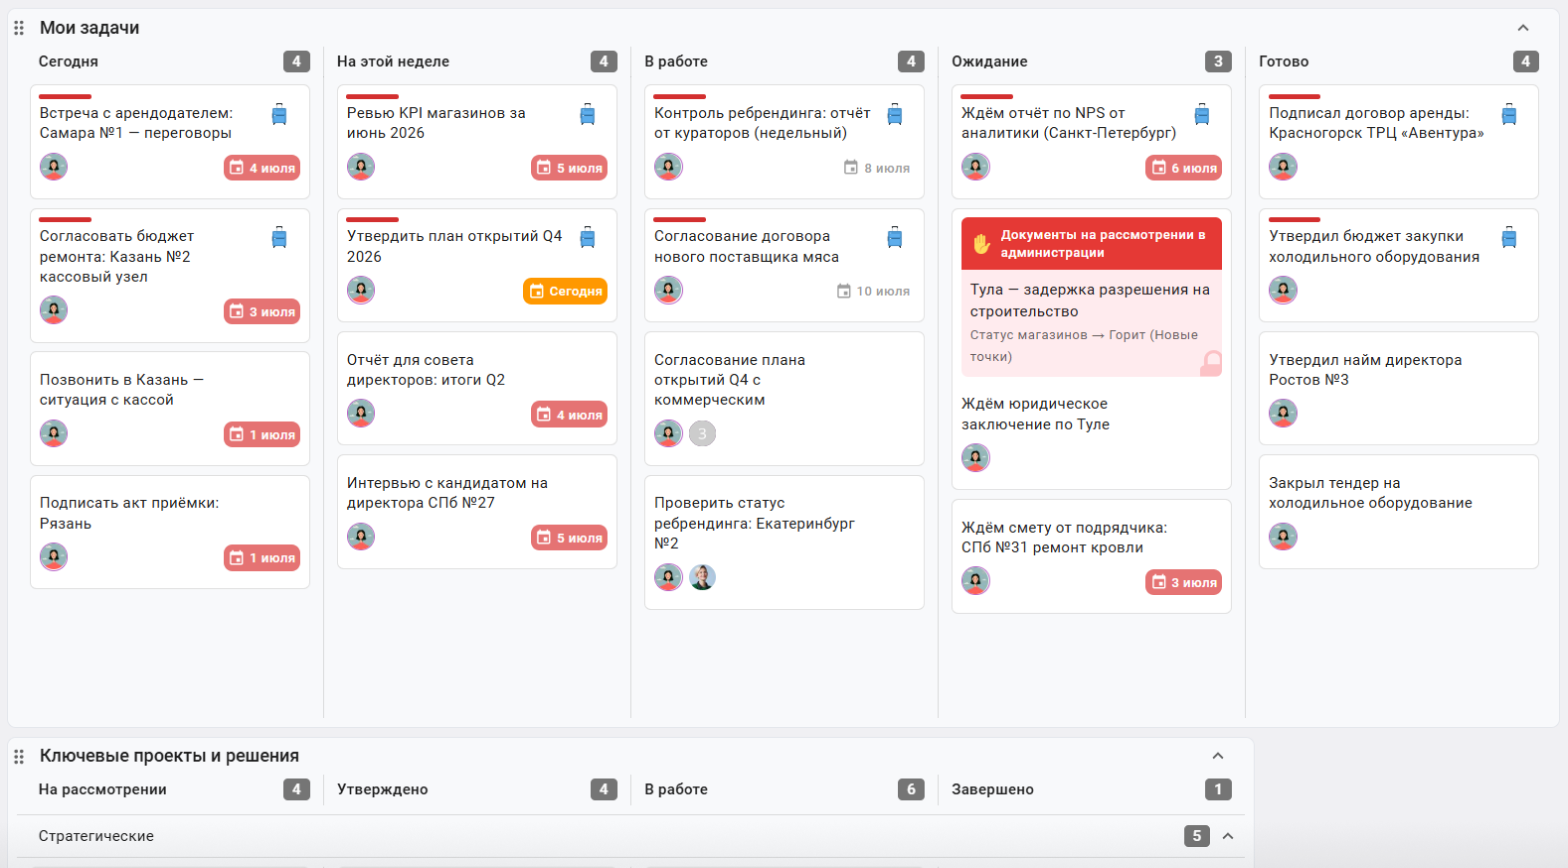
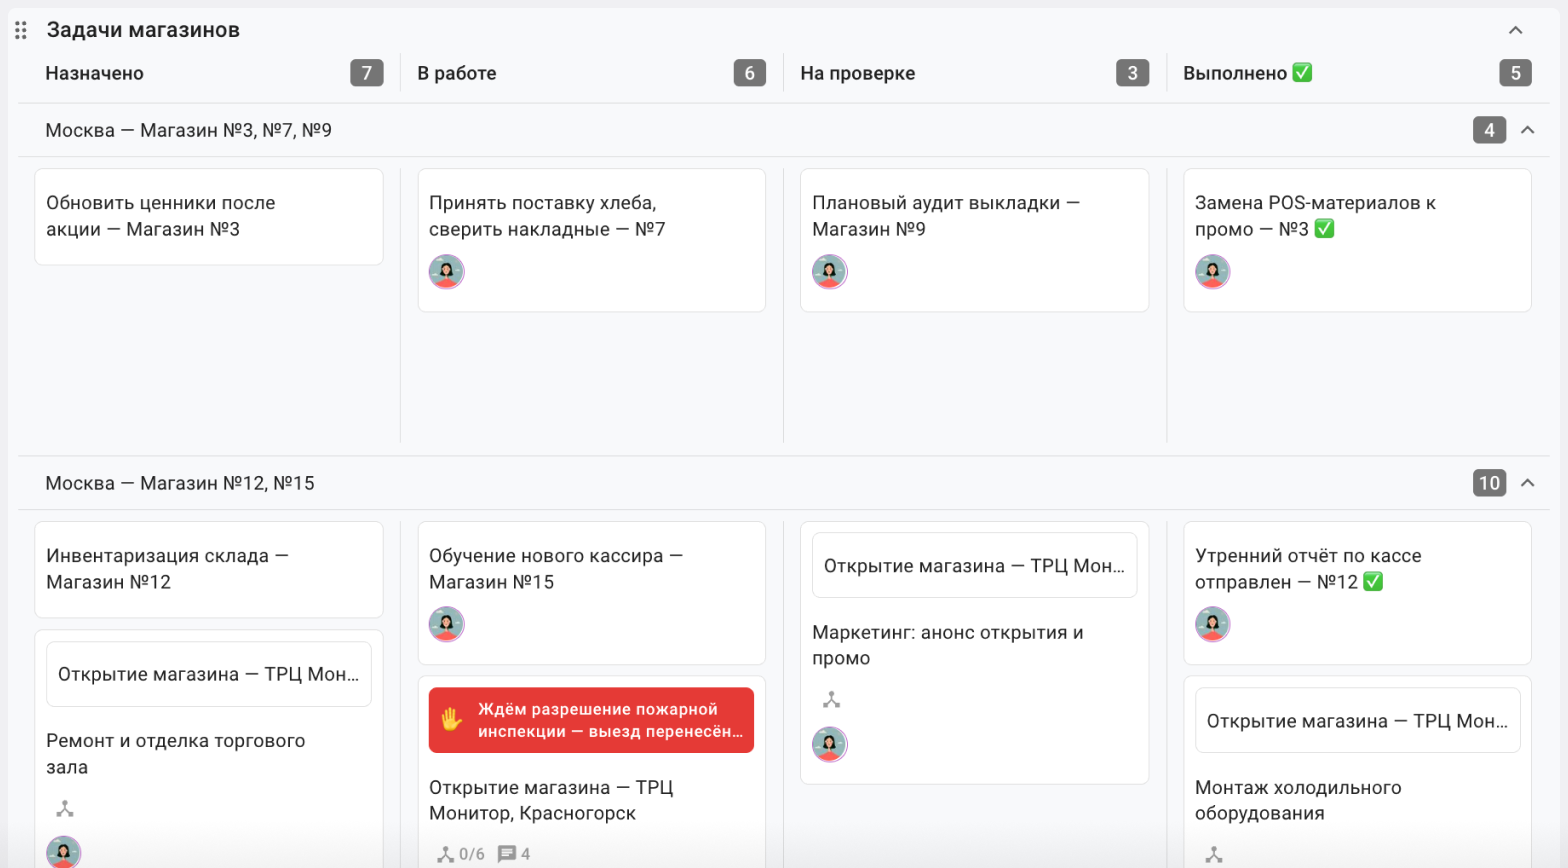
Кайтен для ритейла: новая картинка вкладки «Магазины», отступ аккордеона 96

diff --git a/Кайтен для ритейла/styles.css b/Кайтен для ритейла/styles.css
@@ -247,7 +247,7 @@
 }
 
 .afs{--afs-brand:#7d4ccf;--afs-brand-12:#efe9f9;--afs-bd:#e0e0e0;--afs-t1:#2d2d2d;--afs-t2:#757575;--afs-sec:#f5f5f5;
-  interpolate-size:allow-keywords;font-family:'Roboto','Inter',system-ui,-apple-system,'Segoe UI',sans-serif;color:var(--afs-t1);padding:128px 0 96px}
+  interpolate-size:allow-keywords;font-family:'Roboto','Inter',system-ui,-apple-system,'Segoe UI',sans-serif;color:var(--afs-t1);padding:96px 0}
 .afs *{box-sizing:border-box}
 .afs__container{max-width:calc(1216px + 48px);margin:0 auto;padding:0 24px}
 .afs .acc-wrap{display:grid;grid-template-columns:1fr 1fr;gap:32px;align-items:stretch}
@@ -551,7 +551,7 @@
 }
 
 .afs{--afs-brand:#7d4ccf;--afs-brand-12:#efe9f9;--afs-bd:#e0e0e0;--afs-t1:#2d2d2d;--afs-t2:#757575;--afs-sec:#f5f5f5;
-  interpolate-size:allow-keywords;font-family:'Roboto','Inter',system-ui,-apple-system,'Segoe UI',sans-serif;color:var(--afs-t1);padding:128px 0 96px}
+  interpolate-size:allow-keywords;font-family:'Roboto','Inter',system-ui,-apple-system,'Segoe UI',sans-serif;color:var(--afs-t1);padding:96px 0}
 .afs *{box-sizing:border-box}
 .afs__container{max-width:calc(1216px + 48px);margin:0 auto;padding:0 24px}
 .afs .acc-wrap{display:grid;grid-template-columns:1fr 1fr;gap:32px;align-items:stretch}